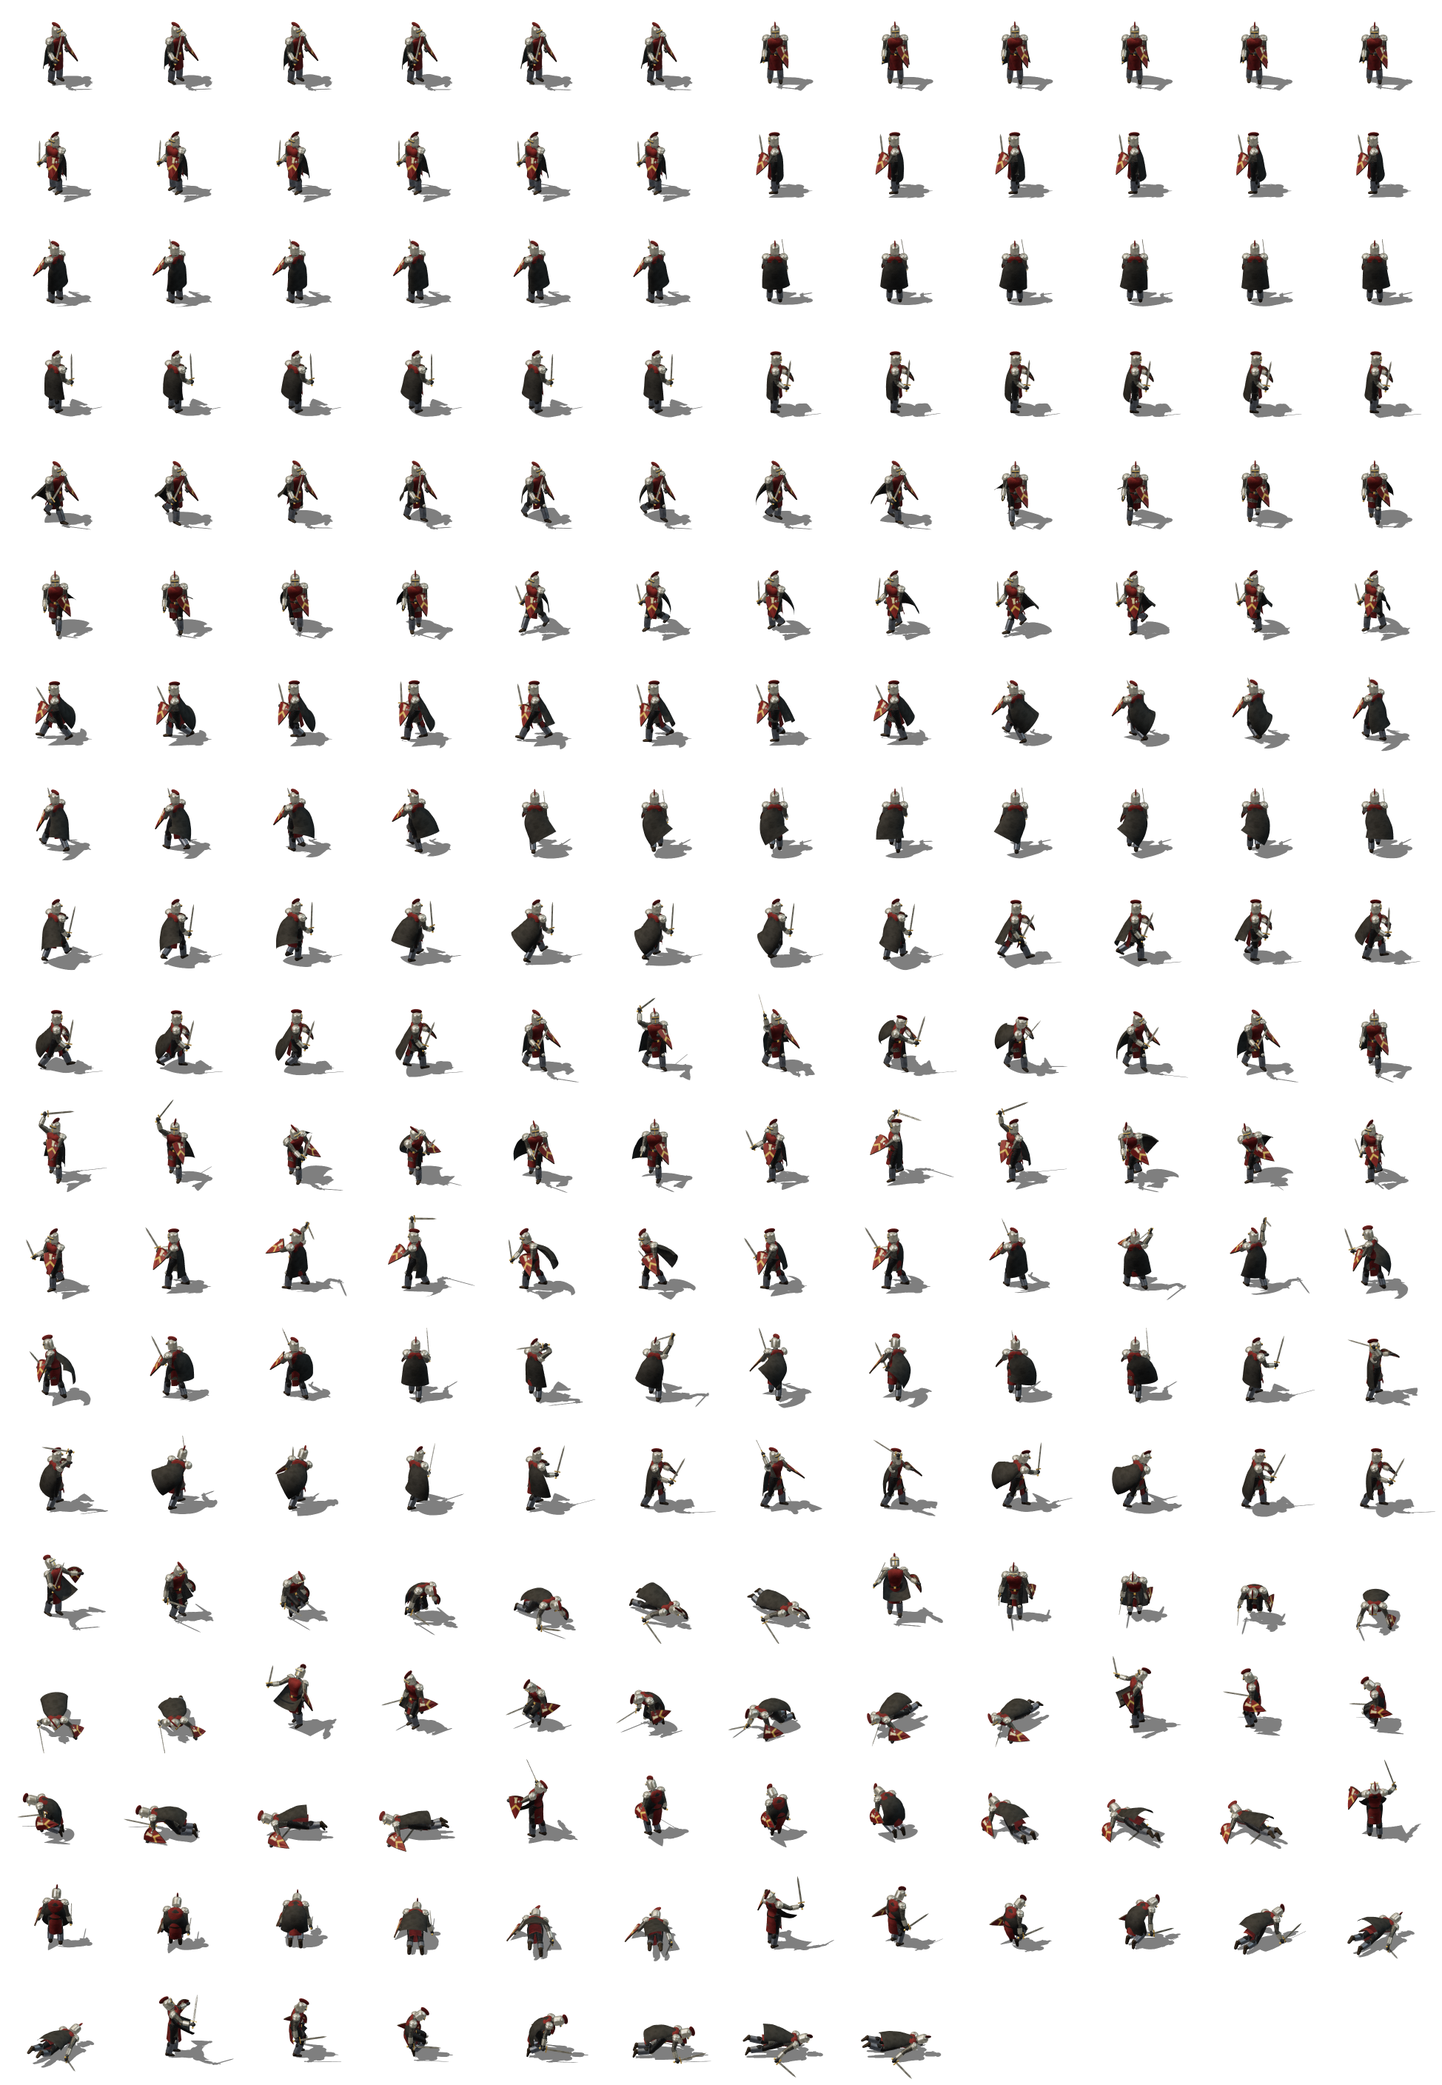
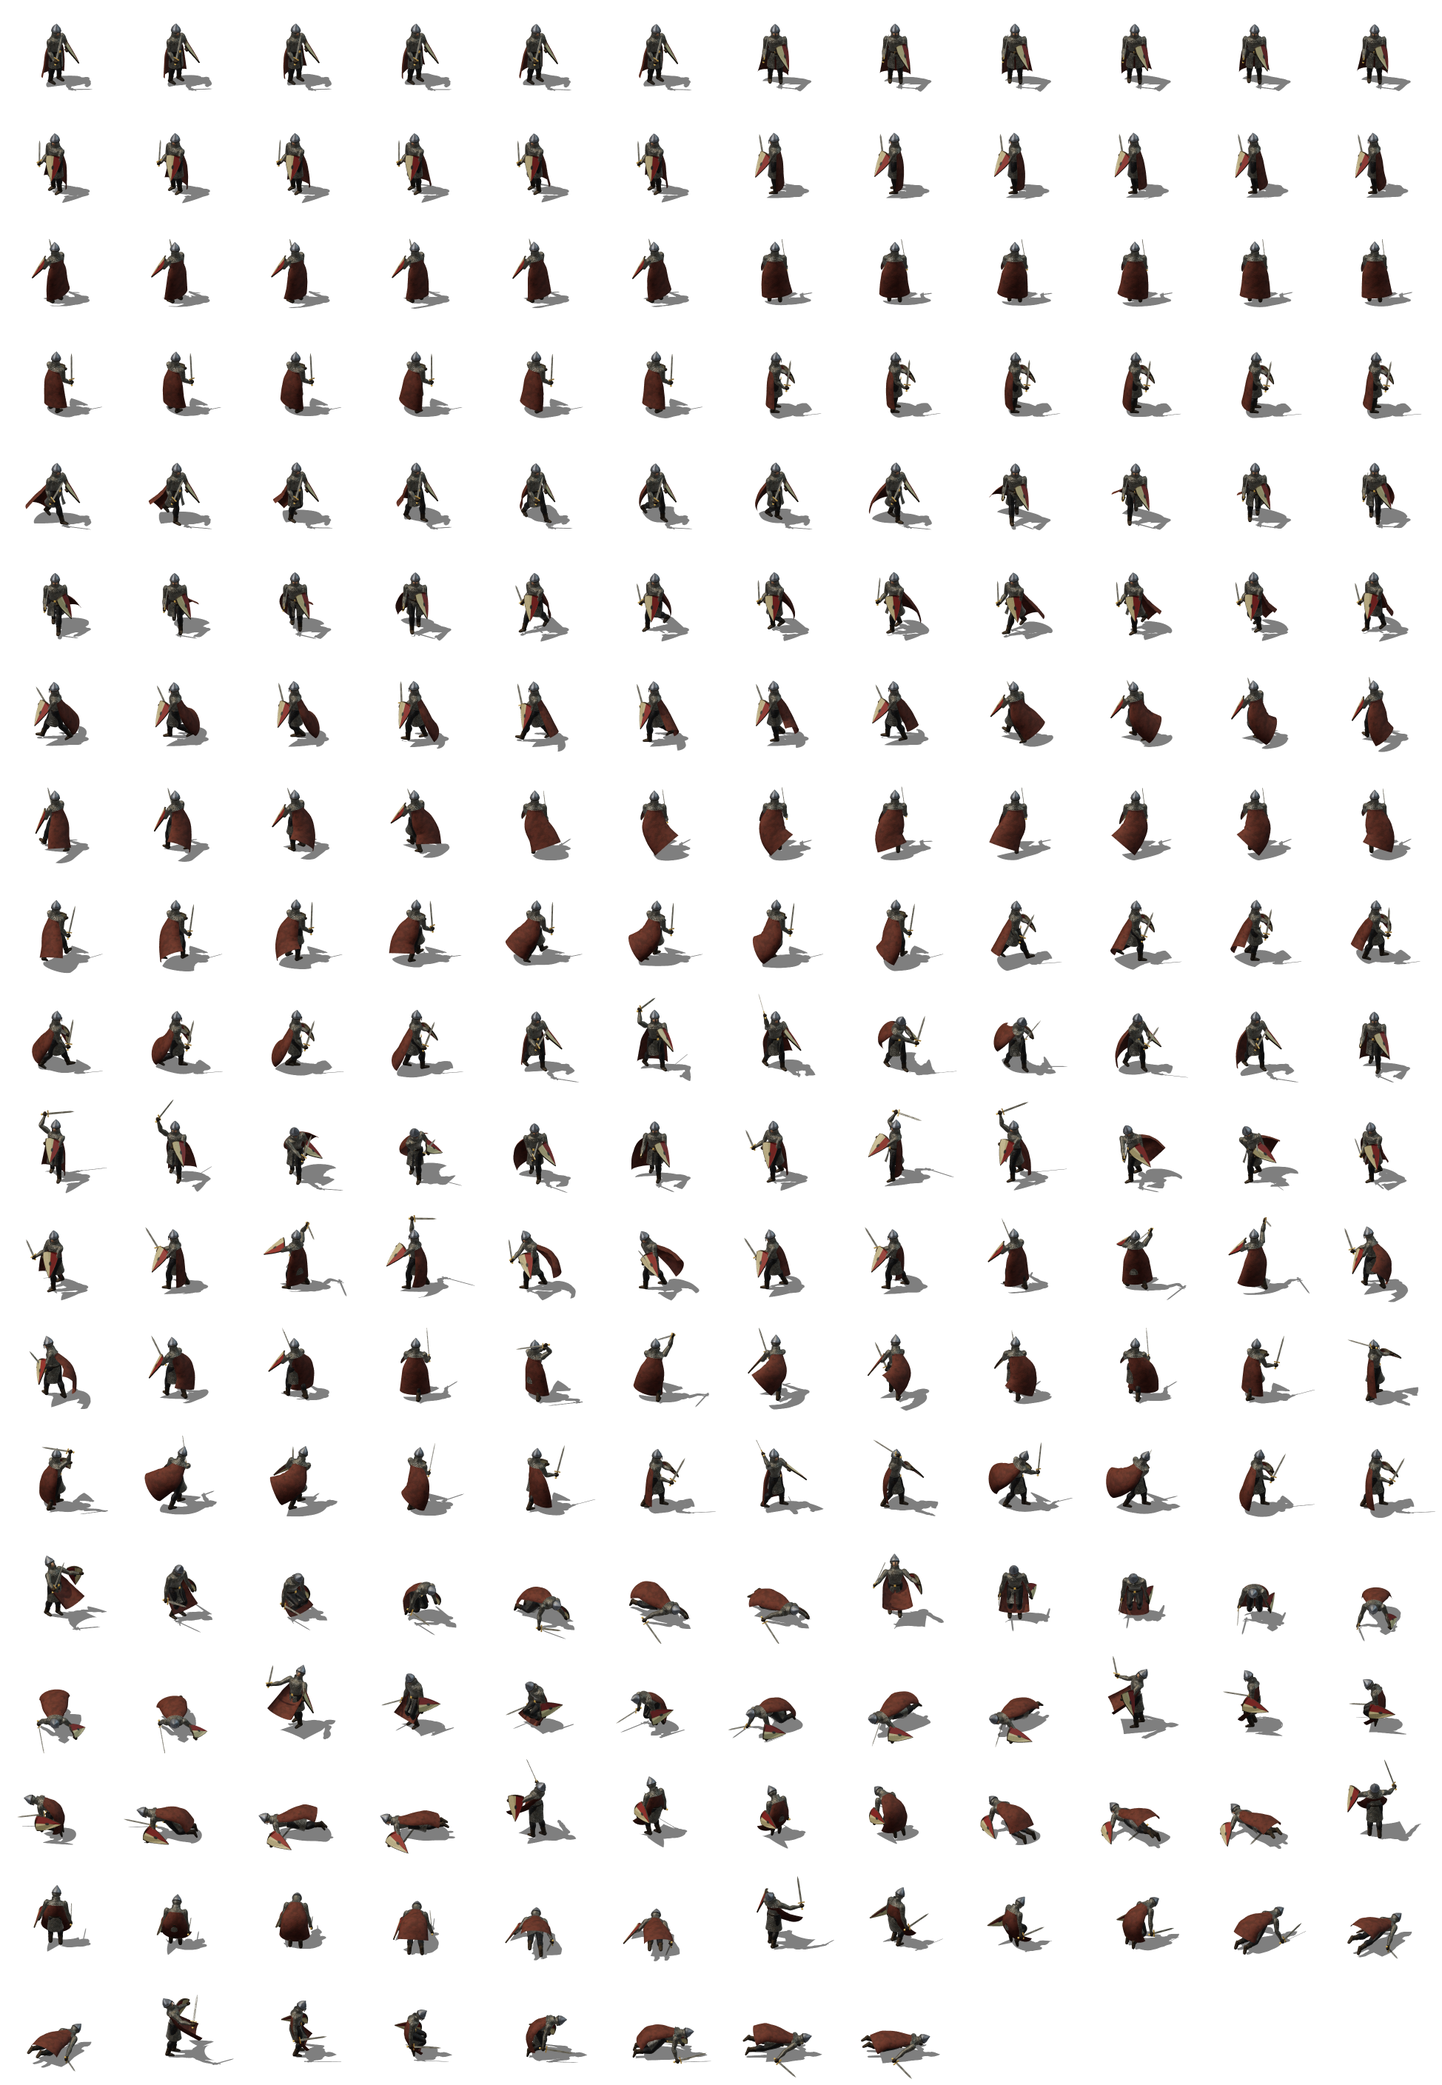
feat(client): the knight becomes the Old Guard, nasal helm, long mail and oxblood cloak with a kite shield

diff --git a/game-client/tools/bake/page/characters/gear.js b/game-client/tools/bake/page/characters/gear.js
@@ -84,13 +84,16 @@ export function longsword(rig, M, F) {
   return g;
 }
 
-/** A kite shield painted with the house device, strapped to the forearm. */
+/**
+ * A tall kite shield strapped to the forearm, curved across its width, painted in the house
+ * colours: per pale, bone and oxblood, an iron boss at the heart.
+ */
 export function kiteShield(rig, side, F) {
   const H = rig.H;
   const s = new THREE.Shape();
-  const w = 0.105 * H;
-  const top = 0.13 * H;
-  const bot = -0.23 * H;
+  const w = 0.115 * H;
+  const top = 0.145 * H;
+  const bot = -0.27 * H;
   s.moveTo(-w, top * 0.72);
   s.quadraticCurveTo(0, top * 1.12, w, top * 0.72);
   s.quadraticCurveTo(w * 1.02, -0.02 * H, 0, bot);
@@ -100,11 +103,12 @@ export function kiteShield(rig, side, F) {
   const pos = geo.attributes.position;
   for (let i = 0; i < pos.count; i++) {
     const x = pos.getX(i) / w;
-    pos.setZ(i, pos.getZ(i) - x * x * 0.03 * H);
+    pos.setZ(i, pos.getZ(i) - x * x * 0.026 * H);
   }
   geo.computeVertexNormals();
 
-  const face = shieldFace(w, top, bot);
+  // the outline's highest point, where the face's paint ends
+  const face = shieldFace(w, top * 0.92, bot);
   // shape → forearm frame: long axis along forearm-local +z (up when the forearm is raised
   // forward), width along the forearm, face outward (+x on the left arm)
   const sx = side === "L" ? 1 : -1;
@@ -124,42 +128,35 @@ function shieldFace(w, top, bot) {
   const S = 256;
   const c = mkCanvas(S, S);
   const ctx = c.getContext("2d");
-  const field = mix("oxblood", "barrowDeep", 0.1);
-  ctx.fillStyle = cssRgb(field);
+  // per pale: bone to the left, oxblood to the right
+  ctx.fillStyle = cssRgb(shade(mix("vellum", "vellumDark", 0.5), 0.82));
   ctx.fillRect(0, 0, S, S);
+  ctx.fillStyle = cssRgb(mix("oxblood", "barrowDeep", 0.12));
+  ctx.fillRect(S * 0.5, 0, S * 0.5, S);
+  // the iron boss
+  ctx.fillStyle = cssRgb(mix("slate", "pitch", 0.4));
+  ctx.beginPath();
+  ctx.arc(S * 0.5, S * 0.46, S * 0.08, 0, Math.PI * 2);
+  ctx.fill();
   // wear on the paint
-  for (let i = 0; i < 900; i++) {
+  const grime = mix("barrowDeep", "pitch", 0.4);
+  for (let i = 0; i < 1100; i++) {
     const x = (i * 97) % S;
     const y = (i * 61 + ((i * i) % 37)) % S;
-    ctx.fillStyle = cssRgb(shade(field, 0.7 + ((i * 13) % 10) / 20), 0.35);
-    ctx.fillRect(x, y, 3, 2);
+    ctx.fillStyle = cssRgb(grime, 0.12 + ((i * 7) % 10) / 60);
+    ctx.fillRect(x, y, 3 + (i % 3), 2);
   }
-  // a brass chevron and a vellum tower: the house of the barrow-watch
-  ctx.fillStyle = cssRgb(mix("brass", "brassBright", 0.5));
-  ctx.beginPath();
-  ctx.moveTo(S * 0.12, S * 0.62);
-  ctx.lineTo(S * 0.5, S * 0.4);
-  ctx.lineTo(S * 0.88, S * 0.62);
-  ctx.lineTo(S * 0.88, S * 0.72);
-  ctx.lineTo(S * 0.5, S * 0.5);
-  ctx.lineTo(S * 0.12, S * 0.72);
-  ctx.fill();
-  ctx.fillStyle = cssRgb(mix("vellum", "vellumDark", 0.3));
-  ctx.fillRect(S * 0.42, S * 0.16, S * 0.16, S * 0.2);
-  ctx.fillRect(S * 0.38, S * 0.13, S * 0.06, S * 0.05);
-  ctx.fillRect(S * 0.47, S * 0.13, S * 0.06, S * 0.05);
-  ctx.fillRect(S * 0.56, S * 0.13, S * 0.06, S * 0.05);
   // rim
-  ctx.strokeStyle = cssRgb(mix("brass", "barrowDeep", 0.3));
-  ctx.lineWidth = 16;
+  ctx.strokeStyle = cssRgb(mix("barrowDeep", "pitch", 0.3));
+  ctx.lineWidth = 18;
   ctx.strokeRect(0, 0, S, S);
   const t = new THREE.CanvasTexture(c);
   t.colorSpace = THREE.SRGBColorSpace;
   // ExtrudeGeometry's face UVs are the shape's own coordinates; map its box onto the canvas
-  t.repeat.set(1 / (2 * w), 1 / (top * 1.12 - bot));
-  t.offset.set(0.5, -bot / (top * 1.12 - bot));
+  t.repeat.set(1 / (2 * w), 1 / (top - bot));
+  t.offset.set(0.5, -bot / (top - bot));
   t.wrapS = t.wrapT = THREE.ClampToEdgeWrapping;
-  return new THREE.MeshStandardMaterial({ map: t, roughness: 0.6, metalness: 0.1 });
+  return new THREE.MeshStandardMaterial({ map: t, roughness: 0.62, metalness: 0.1 });
 }
 
 /**
@@ -339,44 +336,35 @@ export function spikedClub(rig, M, F) {
 
 // --- armour --------------------------------------------------------------------------------
 
-/** A flat-topped great helm with an eye slit, a brass cross and an oxblood crest. */
-export function greatHelm(rig, F, M, crestMat) {
+/**
+ * A conical nasal helm, worn over a mail coif (anatomy.js coif): a dark steel cone rising to a
+ * point, an iron band about the brow and an iron nasal down over the nose, the face left bare.
+ */
+export function nasalHelm(rig, F) {
   const H = rig.H;
   const [, hy, hz] = J(rig, "head");
   const r = rig.p.headR;
-  const shell = rigidTube(
+  const cone = rigidTube(
     H,
     [
-      { p: [0, hy - 0.012, hz - 0.002], r: [r * 1.08, r * 1.14] },
-      { p: [0, hy + 0.05, hz], r: [r * 1.12, r * 1.18] },
-      { p: [0, hy + 0.1, hz - 0.002], r: [r * 1.06, r * 1.12] },
-      { p: [0, hy + 0.125, hz - 0.004], r: [r * 0.78, r * 0.84] },
+      { p: [0, hy + 0.058, hz - 0.004], r: [r * 1.15, r * 1.2] },
+      { p: [0, hy + 0.095, hz - 0.006], r: [r * 1.02, r * 1.07] },
+      { p: [0, hy + 0.138, hz - 0.004], r: [r * 0.55, r * 0.58] },
+      { p: [0, hy + 0.176, hz + 0.002], r: [r * 0.07, r * 0.07] },
     ],
-    { segs: 22, steps: 3 },
+    { segs: 20, steps: 3 },
   );
-  attach(rig, "head", shell, F.steel, [0, 0, 0]);
-  attach(rig, "head", new THREE.BoxGeometry(r * 1.7 * H, 0.011 * H, 0.03 * H), F.blackIron, [0, hy + 0.066, hz + r * 1.1]);
-  attach(rig, "head", new THREE.BoxGeometry(0.012 * H, 0.085 * H, 0.012 * H), M.brass, [0, hy + 0.035, hz + r * 1.18]);
-  attach(rig, "head", new THREE.BoxGeometry(r * 1.9 * H, 0.01 * H, 0.012 * H), M.brass, [0, hy + 0.084, hz + r * 1.12]);
-  const crest = new THREE.SphereGeometry(1, 14, 10);
-  crest.scale(0.012 * H, 0.04 * H, 0.085 * H);
-  attach(rig, "head", crest, crestMat, [0, hy + 0.15, hz - 0.01]);
-}
-
-/** Steel pauldrons: two lames on each shoulder, riding the upper arm. */
-export function pauldrons(rig, F) {
-  const H = rig.H;
-  for (const [s, sx] of [
-    ["L", 1],
-    ["R", -1],
-  ]) {
-    const [x, uy] = J(rig, `upperArm${s}`);
-    for (let k = 0; k < 2; k++) {
-      const cap = new THREE.SphereGeometry(1, 16, 8, 0, Math.PI * 2, 0, Math.PI * 0.52);
-      cap.scale(0.06 * H * (1 - k * 0.12), 0.04 * H, 0.062 * H * (1 - k * 0.1));
-      attach(rig, `upperArm${s}`, cap, F.steelDouble, [x + sx * (0.006 + k * 0.012), uy + 0.022 - k * 0.028, 0], { rz: -sx * (0.35 + k * 0.25) });
-    }
-  }
+  attach(rig, "head", cone, F.darkSteel, [0, 0, 0]);
+  const band = rigidTube(
+    H,
+    [
+      { p: [0, hy + 0.054, hz - 0.004], r: [r * 1.19, r * 1.24] },
+      { p: [0, hy + 0.068, hz - 0.004], r: [r * 1.17, r * 1.22] },
+    ],
+    { segs: 20, steps: 1 },
+  );
+  attach(rig, "head", band, F.blackIron, [0, 0, 0]);
+  attach(rig, "head", new THREE.BoxGeometry(0.014 * H, 0.062 * H, 0.008 * H), F.blackIron, [0, hy + 0.032, hz + r * 1.22]);
 }
 
 /** Rigid plate or leather tubes over a limb segment (vambraces, bracers, greaves). */
@@ -393,17 +381,6 @@ export function limbGuard(rig, bone, from, to, r, mat, o = {}) {
     { segs: 14, steps: 2, caps: false },
   );
   return attach(rig, bone, geo, mat, [0, 0, 0]);
-}
-
-/** A knee cop on the front of each knee, riding the shin. */
-export function poleyns(rig, F) {
-  const H = rig.H;
-  for (const s of ["L", "R"]) {
-    const [x, ky] = J(rig, `shin${s}`);
-    const cap = new THREE.SphereGeometry(0.03 * H, 12, 8, 0, Math.PI * 2, 0, Math.PI * 0.55);
-    cap.rotateX(Math.PI / 2);
-    attach(rig, `shin${s}`, cap, F.steel, [x, ky - 0.004, 0.035]);
-  }
 }
 
 /** A tall wizard's hat: a drooping brim, a crooked cone and a brass band. */

diff --git a/game-client/tools/bake/page/characters/cast.js b/game-client/tools/bake/page/characters/cast.js
@@ -21,13 +21,13 @@ import {
   boots,
   cloak,
   cloakBones,
+  coif,
   cowl,
   hair,
   hands,
   head,
   legs,
   neck,
-  overTorso,
   sash,
   shortBeard,
   skirt,
@@ -37,7 +37,6 @@ import {
 import {
   cleaver,
   curvedSword,
-  greatHelm,
   gripAt,
   inHand,
   kiteShield,
@@ -45,8 +44,7 @@ import {
   limbGuard,
   longbow,
   longsword,
-  pauldrons,
-  poleyns,
+  nasalHelm,
   quiver,
   scabbard,
   spaulder,
@@ -58,42 +56,36 @@ import { DEMON_ANIMATIONS, demon } from "./demon.js";
 import { ghost, zombie } from "./forlorn.js";
 import { BOAR_ANIMATIONS, boar, eliteBoar } from "./boar.js";
 
-const FRONT = [Math.PI / 2 - 0.95, Math.PI / 2 + 0.95];
-const BACK = [-Math.PI / 2 - 0.95, -Math.PI / 2 + 0.95];
-
+/**
+ * The Knight: the old guard of the barrow-watch. A conical nasal helm over a mail coif, the face
+ * bare beneath it; a long mail hauberk to the knee, open at the front for the saddle, over mail
+ * chausses; no plate at all. A heavy oxblood cloak to the calf, a longsword on a plain belt, and a
+ * tall kite shield painted per pale in bone and oxblood.
+ */
 export function knight() {
   const M = materials();
   const F = fabrics();
   const rig = createRig(2.0, { shoulderW: 1.1, torsoW: 1.06 });
   rig.hooks = [];
-  cloakBones(rig, { length: 0.5 });
-  skirtBones(rig);
+  cloakBones(rig, { length: 0.64, drag: 0.34 });
+  skirtBones(rig, { stiffness: 55 });
   const [, hy] = J(rig, "hips");
   const [, ky] = J(rig, "shinL");
-  const [, ay] = J(rig, "footL");
-  const [, fy] = J(rig, "foreArmL");
-  const [, wy] = J(rig, "handL");
+  // the hauberk is open across the front by `gap` radians each side of centre
+  const openFront = (gap) => [Math.PI / 2 + gap, Math.PI / 2 + Math.PI * 2 - gap];
 
   torso(rig, F.mail);
   neck(rig, F.mail);
   arms(rig, F.mail);
   legs(rig, F.mailDark);
-  hands(rig, F.blackIron);
-  boots(rig, F.leatherDark, { top: 0.06 });
-  greatHelm(rig, F, M, F.tabard);
-  pauldrons(rig, F);
-  for (const s of ["L", "R"]) {
-    limbGuard(rig, `foreArm${s}`, wy + 0.02, fy - 0.03, [0.037, 0.035], F.steel);
-    limbGuard(rig, `shin${s}`, ay + 0.02, ky - 0.035, [0.045, 0.05], F.darkSteel, { z: 0.004, taper: 1.05 });
-  }
-  poleyns(rig, F);
-  skirt(rig, F.mail, { top: hy + 0.02, bottom: hy - 0.17, rTop: [0.1, 0.078], rBottom: [0.114, 0.096], legFollow: 0.75 });
-  overTorso(rig, F.tabard, { from: hy - 0.01, arc: FRONT, pad: 0.012 });
-  overTorso(rig, F.tabard, { from: hy - 0.01, arc: BACK, pad: 0.012 });
-  for (const arc of [FRONT, BACK])
-    skirt(rig, F.tabard, { top: hy - 0.005, bottom: hy - 0.27, rTop: [0.11, 0.09], rBottom: [0.122, 0.108], arc, panels: true, legFollow: 0.35, segs: 12 });
-  belt(rig, F.leatherDark, M.brass, { r: [0.112, 0.092], dy: 0.0 });
-  cloak(rig, F.cloakKnight, { length: 0.5, spread: 1.35 });
+  hands(rig, F.leatherDark);
+  boots(rig, F.leatherDark, { top: 0.1 });
+  head(rig, F.skin);
+  coif(rig, F.mailDouble);
+  nasalHelm(rig, F);
+  skirt(rig, F.mail, { top: hy + 0.02, bottom: ky + 0.02, rTop: [0.104, 0.082], rBottom: [0.13, 0.112], legFollow: 0.75, panels: true, panelWeight: 0.3, arc: openFront(0.12), segs: 30 });
+  belt(rig, F.leatherDark, M.brass, { r: [0.106, 0.086], dy: 0.03 });
+  cloak(rig, F.cloakKnight, { length: 0.64, spread: 1.5, flare: 1.3 });
   inHand(rig, "R").add(longsword(rig, M, F));
   kiteShield(rig, "L", F);
 

diff --git a/game-client/tools/bake/page/characters/fabrics.js b/game-client/tools/bake/page/characters/fabrics.js
@@ -285,8 +285,8 @@ export const GEAR = {
   leather: mix("barrowBrown", "barrowDeep", 0.3),
   leatherLight: mix("barrowBrown", "brass", 0.3),
   leatherDark: mix("barrowDeep", "pitch", 0.35),
-  tabard: mix("oxblood", "barrowDeep", 0.15),
-  cloakKnight: mix("charcoal", "slate", 0.55),
+  // the knight's heavy wool cloak, in the house oxblood
+  cloakKnight: mix("oxblood", "barrowDeep", 0.58),
   ranger: mix("arcaneDeep", "barrowDeep", 0.4),
   rangerDark: mix("arcaneDeep", "pitch", 0.45),
   breeches: mix("barrowDeep", "slate", 0.35),
@@ -352,6 +352,7 @@ export function fabrics() {
   const D = THREE.DoubleSide;
   SET = {
     mail: mat(mail(GEAR.mail), { metal: 0.8, rough: 0.45, normal: 1.2 }),
+    mailDouble: mat(mail(GEAR.mail), { metal: 0.8, rough: 0.45, normal: 1.2, side: D }),
     mailDark: mat(mail(GEAR.blackIron, { rust: 0.35, dirt: 0.5, seed: 4 }), { metal: 0.7, rough: 0.55 }),
     steel: mat(plate(GEAR.steel), { metal: 0.85, rough: 0.3 }),
     steelDouble: mat(plate(GEAR.steel), { metal: 0.85, rough: 0.3, side: D }),
@@ -363,8 +364,7 @@ export function fabrics() {
     leatherLight: mat(leather(GEAR.leatherLight, { seed: 21 }), { rough: 0.72 }),
     leatherDark: mat(leather(GEAR.leatherDark, { seed: 23 }), { rough: 0.65 }),
     leatherDouble: mat(leather(GEAR.leatherLight, { seed: 21 }), { rough: 0.72, side: D }),
-    tabard: mat(wool(GEAR.tabard, { seed: 25 }), { side: D }),
-    cloakKnight: mat(wool(GEAR.cloakKnight, { seed: 27, dirt: 0.5 }), { side: D }),
+    cloakKnight: mat(wool(GEAR.cloakKnight, { seed: 93, dirt: 0.5 }), { side: D }),
     ranger: mat(wool(GEAR.ranger, { seed: 29, dirt: 0.45 }), { side: D }),
     rangerDark: mat(wool(GEAR.rangerDark, { seed: 31 })),
     breeches: mat(wool(GEAR.breeches, { seed: 33 })),

diff --git a/game-client/tools/bake/page/characters/anatomy.js b/game-client/tools/bake/page/characters/anatomy.js
@@ -504,6 +504,30 @@ function drawToPoint(geo, { dir, length, droop = 0, pinch = 0.92, girth = 2.2, s
   return geo;
 }
 
+/**
+ * A mail coif: a hood of mail over the crown and round the face, the face itself left open, and
+ * its mantle spread over the neck and the shoulder line. Worn under a helm; `mat` should be
+ * double-sided.
+ */
+export function coif(rig, mat) {
+  const H = rig.H;
+  const [, hy, hz] = J(rig, "head");
+  const [, ny] = J(rig, "neck");
+  const r = rig.p.headR;
+  const hoodG = new THREE.SphereGeometry(r * 1.1 * H, 22, 14, Math.PI / 2 + 0.62, Math.PI * 2 - 1.24, 0, Math.PI * 0.8);
+  attach(rig, "head", hoodG, mat, [0, hy + 0.055, hz - 0.004]);
+  const mantle = rigidTube(
+    H,
+    [
+      { p: [0, hy + 0.0, hz - 0.01], r: [r * 1.0, r * 1.0] },
+      { p: [0, ny + 0.0, -0.006], r: [0.072, 0.068] },
+      { p: [0, ny - 0.05, -0.004], r: [0.13 * rig.p.shoulderW, 0.094 * rig.p.torsoD] },
+    ],
+    { segs: 24, steps: 4, caps: false },
+  );
+  attach(rig, "chest", mantle, mat, [0, 0, 0]);
+}
+
 /** A short capelet riding the chest and covering the shoulder line, under a hood or cowl. */
 function capelet(rig, mat) {
   const H = rig.H;

diff --git a/game-client/docs/design-guideline.md b/game-client/docs/design-guideline.md
@@ -251,6 +251,12 @@ lit) while the player stands inside.
   horizontal on four legs.
 - **Player:** cloaked/armored figure with a lantern or torch; strong silhouette. The
   class reads at a glance: knight, archer, wizard, mercenary.
+- **Knight:** the old guard of the barrow-watch, armoured in mail, never plate. A conical nasal
+  helm sits over a mail coif, the face bare behind the nasal. A long mail hauberk falls to the
+  knee, open at the front for the saddle, over mail chausses and plain boots, and a heavy oxblood
+  cloak hangs to the calf. He carries a longsword and a tall kite shield painted per pale in bone
+  and oxblood, with an iron boss. Worn and functional kit, never bright fantasy plate. *(Amended
+  at the owner's pick, 2026-11-04.)*
 - **Archer:** a ranger in forest green. A deep cowl, closed over the crown, hides most of the
   face in shadow down to the mouth. Its crown draws back into one long, full point that droops
   like real cloth, never a split hood or a sharp spike. A capelet sits under the cowl and a
@@ -262,8 +268,8 @@ lit) while the player stands inside.
   boots. He goes bareheaded, his hair tied back and his beard trimmed, so the face and hair
   carry him. His sword is a long, slender, curved dueling blade with a knuckle-bow, used
   one-handed with no shield. He is broad in the shoulder and heavy in the arm: never the
-  knight's plate and helm, never the archer's hood and cloak. *(Amended at the owner's pick,
-  FS-MAMHR §H, 2026-10-31.)*
+  knight's long mail, helm and shield, never the archer's hood and cloak. *(Amended at the
+  owner's pick, FS-MAMHR §H, 2026-10-31.)*
 - **Enemies:** barrow/undead themes — skeletons, wraiths, revenants — for fodder and brutes;
   a boss may also be an infernal demon the Spire summons. In field worlds only, fodder and
   brutes may also be living animals (the boar first). Dark palette; **glowing eyes as the
